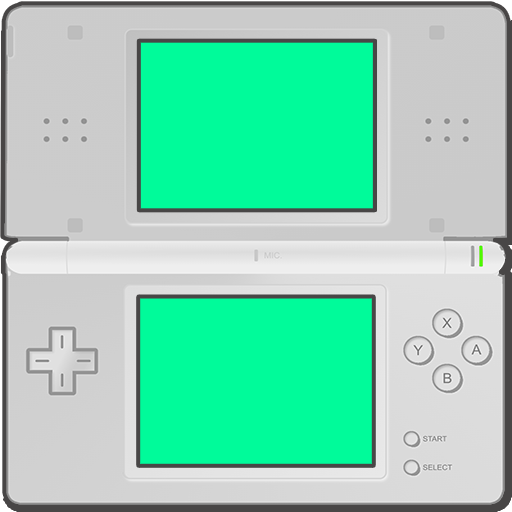
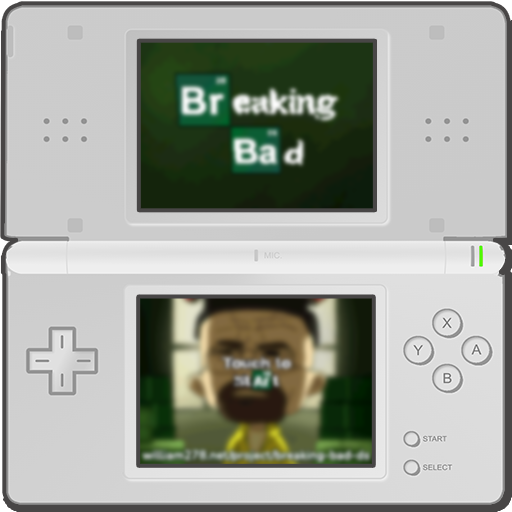
fix: emulator not showing
also hides All-Rights-Reserved licenses

Changed region(s): [[0.25, 0.0625, 0.75, 0.4062], [0.25, 0.5625, 0.75, 0.9062]]

diff --git a/pages/project/[slug].vue b/pages/project/[slug].vue
@@ -26,7 +26,7 @@
                         <DownloadsMenu :project="project" />
                     </div>
                     <div v-if="selectedTab === 'play'">
-                        <DsEmulator :game-name="meta.name" :game-core="meta.properties?.emulator_core ?? 'desmume2015'"
+                        <DsEmulator :game-name="meta.name" :game-core="useProjectProperty(project, 'emulator_core') ?? 'desmume2015'"
                             :game-url="`/emulator-js/roms/${project.slug}`" />
                     </div>
                 </Tabs>
@@ -61,7 +61,7 @@ selectedTab.value = 'about';
 if (meta?.listDownloads) {
     tabs.push({ id: 'download', name: t('tab-download') }); 
 }
-if (meta?.properties?.emulator_rom) {
+if (useProjectProperty(project.value, 'emulator_rom')) {
     tabs.unshift({ id: 'play', name: t('tab-play') });
     selectedTab.value = 'play';
 }

diff --git a/components/ProjectSidebar.vue b/components/ProjectSidebar.vue
@@ -40,7 +40,7 @@
                     {{$t('project-price-sterling', {'price': meta.suggestedRetailPrice.toFixed(2)})}}
                 </div>
             </div>
-            <div class="stat" v-if="meta.license?.length">
+            <div class="stat" v-if="meta.license?.length && meta.license !== 'All Rights Reserved'">
                 <div class="stat-descriptor">{{ $t('project-license') }}</div>
                 <div class="stat-data">
                     <IconifiedText icon="fa6-solid:scale-balanced">

diff --git a/composables/useProjectProperty.js b/composables/useProjectProperty.js
@@ -1,0 +1,3 @@
+export const useProjectProperty = (project, property_key) => {
+    return project?.metadata?.properties?.find(property => property.key === property_key)?.value;
+}
